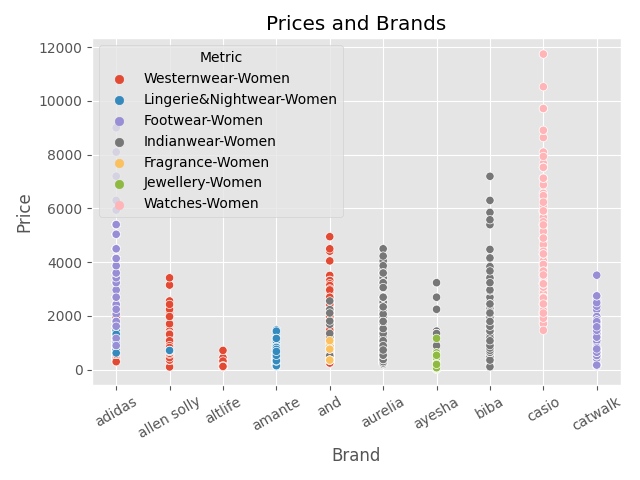
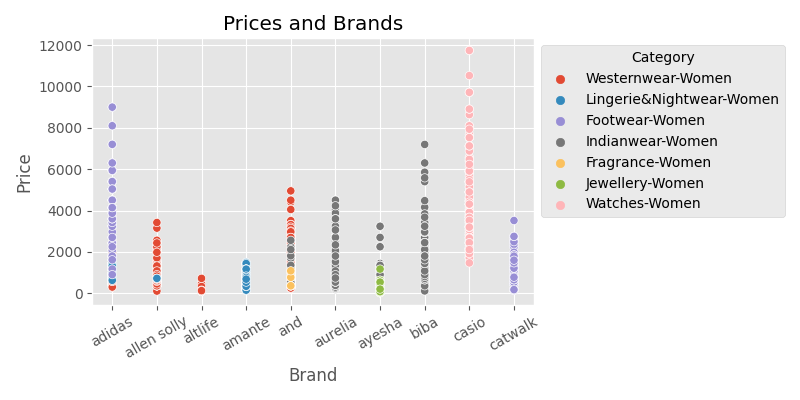
Fix legends position

diff --git a/EDA.py b/EDA.py
@@ -97,9 +97,12 @@ cx = sns.scatterplot(x='Discount',
                 y='Sell_Price',
                 hue='Category',
                 data=df)
+
 cx.set_title('Prices and Discounts')
 cx.set_ylabel('Price')
+sns.move_legend(cx, "upper left", bbox_to_anchor=(1, 1))
 
+plt.tight_layout()
 plt.savefig('prices_discounts.png')
 plt.show()
 
@@ -113,10 +116,9 @@ plt.title('MRP and Price by Category')
 plt.xlabel('Category')
 plt.ylabel('Sum')
 plt.legend(title='Metric', loc='upper left')
-
 plt.xticks(rotation=40)
-plt.tight_layout()
 
+plt.tight_layout()
 plt.savefig('MRP_prices.png')
 plt.show()
 
@@ -125,33 +127,34 @@ brands = df['Brand_Name'].value_counts().head(10).keys()
 new_df = df.loc[df['Brand_Name'].isin(brands)]
 
 # Stacked Bar Chart of Category by Brand (top 10 stats)
+
 # Group the data by brand and category, and count the occurrences
 grouped_data = new_df.groupby(['Brand_Name', 'Category']).size().unstack()
-grouped_data.plot(kind='bar', stacked=True)
+grouped_data.plot(kind='bar', stacked=True, figsize=(8,4))
 
 plt.title('Category Count by Brand')
 plt.xlabel('Brand')
 plt.ylabel('Category')
-plt.legend(title='Categories by Brand', loc='upper left')
-
+plt.legend(title='Categories by Brand', loc='upper left', bbox_to_anchor=(1, 1))
 plt.xticks(rotation=30)
-plt.tight_layout()
 
+plt.tight_layout()
 plt.savefig('categories_by_brands.png')
 plt.show()
 
 # Brand specific pricing patterns (top 10 stats)
+plt.figure(figsize=(8,4))
 dx = sns.scatterplot(x='Brand_Name',
                 y='Actual_Price',
                 hue='Category',
                 data=new_df)
+
 dx.set_title('Prices and Brands')
 dx.set_xlabel('Brand')
 dx.set_ylabel('Price')
-plt.legend(title='Metric', loc='upper left')
-
+sns.move_legend(dx, "upper left", bbox_to_anchor=(1, 1))
 plt.xticks(rotation=30)
-plt.tight_layout()
 
+plt.tight_layout()
 plt.savefig('brand_pricing.png')
 plt.show()

diff --git a/README.md b/README.md
@@ -76,9 +76,9 @@ Let's analyze the columns individually:
 1) There are three columns with unique values: S. No, Product_ID, Product_Name.
 2) There is a column with the same value in every row: Currency.
 3) There are two columns that are not relevant to the analysis: Brand Desc (since its values are almost unique), Product Size (since its values are not standardized).
-4) This leaves us with five columns: Brand_Name, MRP, SellPrice, Discount, Category.
+4) This leaves us with five columns: Brand_Name, MRP, Sell_Pricece, Discount, Category.
 
-For columns MRP, SellPrice, Discount we already acquired some knowledge about their value distributions (e.g. mean and median values) in the dataset summary. So now we can analyze the remaining two columns: Brand_Name and Category.
+For columns MRP, Sell_Pricece, Discount we already acquired some knowledge about their value distributions (e.g. mean and median values) in the dataset summary. So now we can analyze the remaining two columns: Brand_Name and Category.
 
 For the column Brand_Name, Brand-wise analysis is conducted and the top ten brands with the most products are identified. This data is visualized with a horizontal bar chart.
 ![Alt text](top_brands.png)
